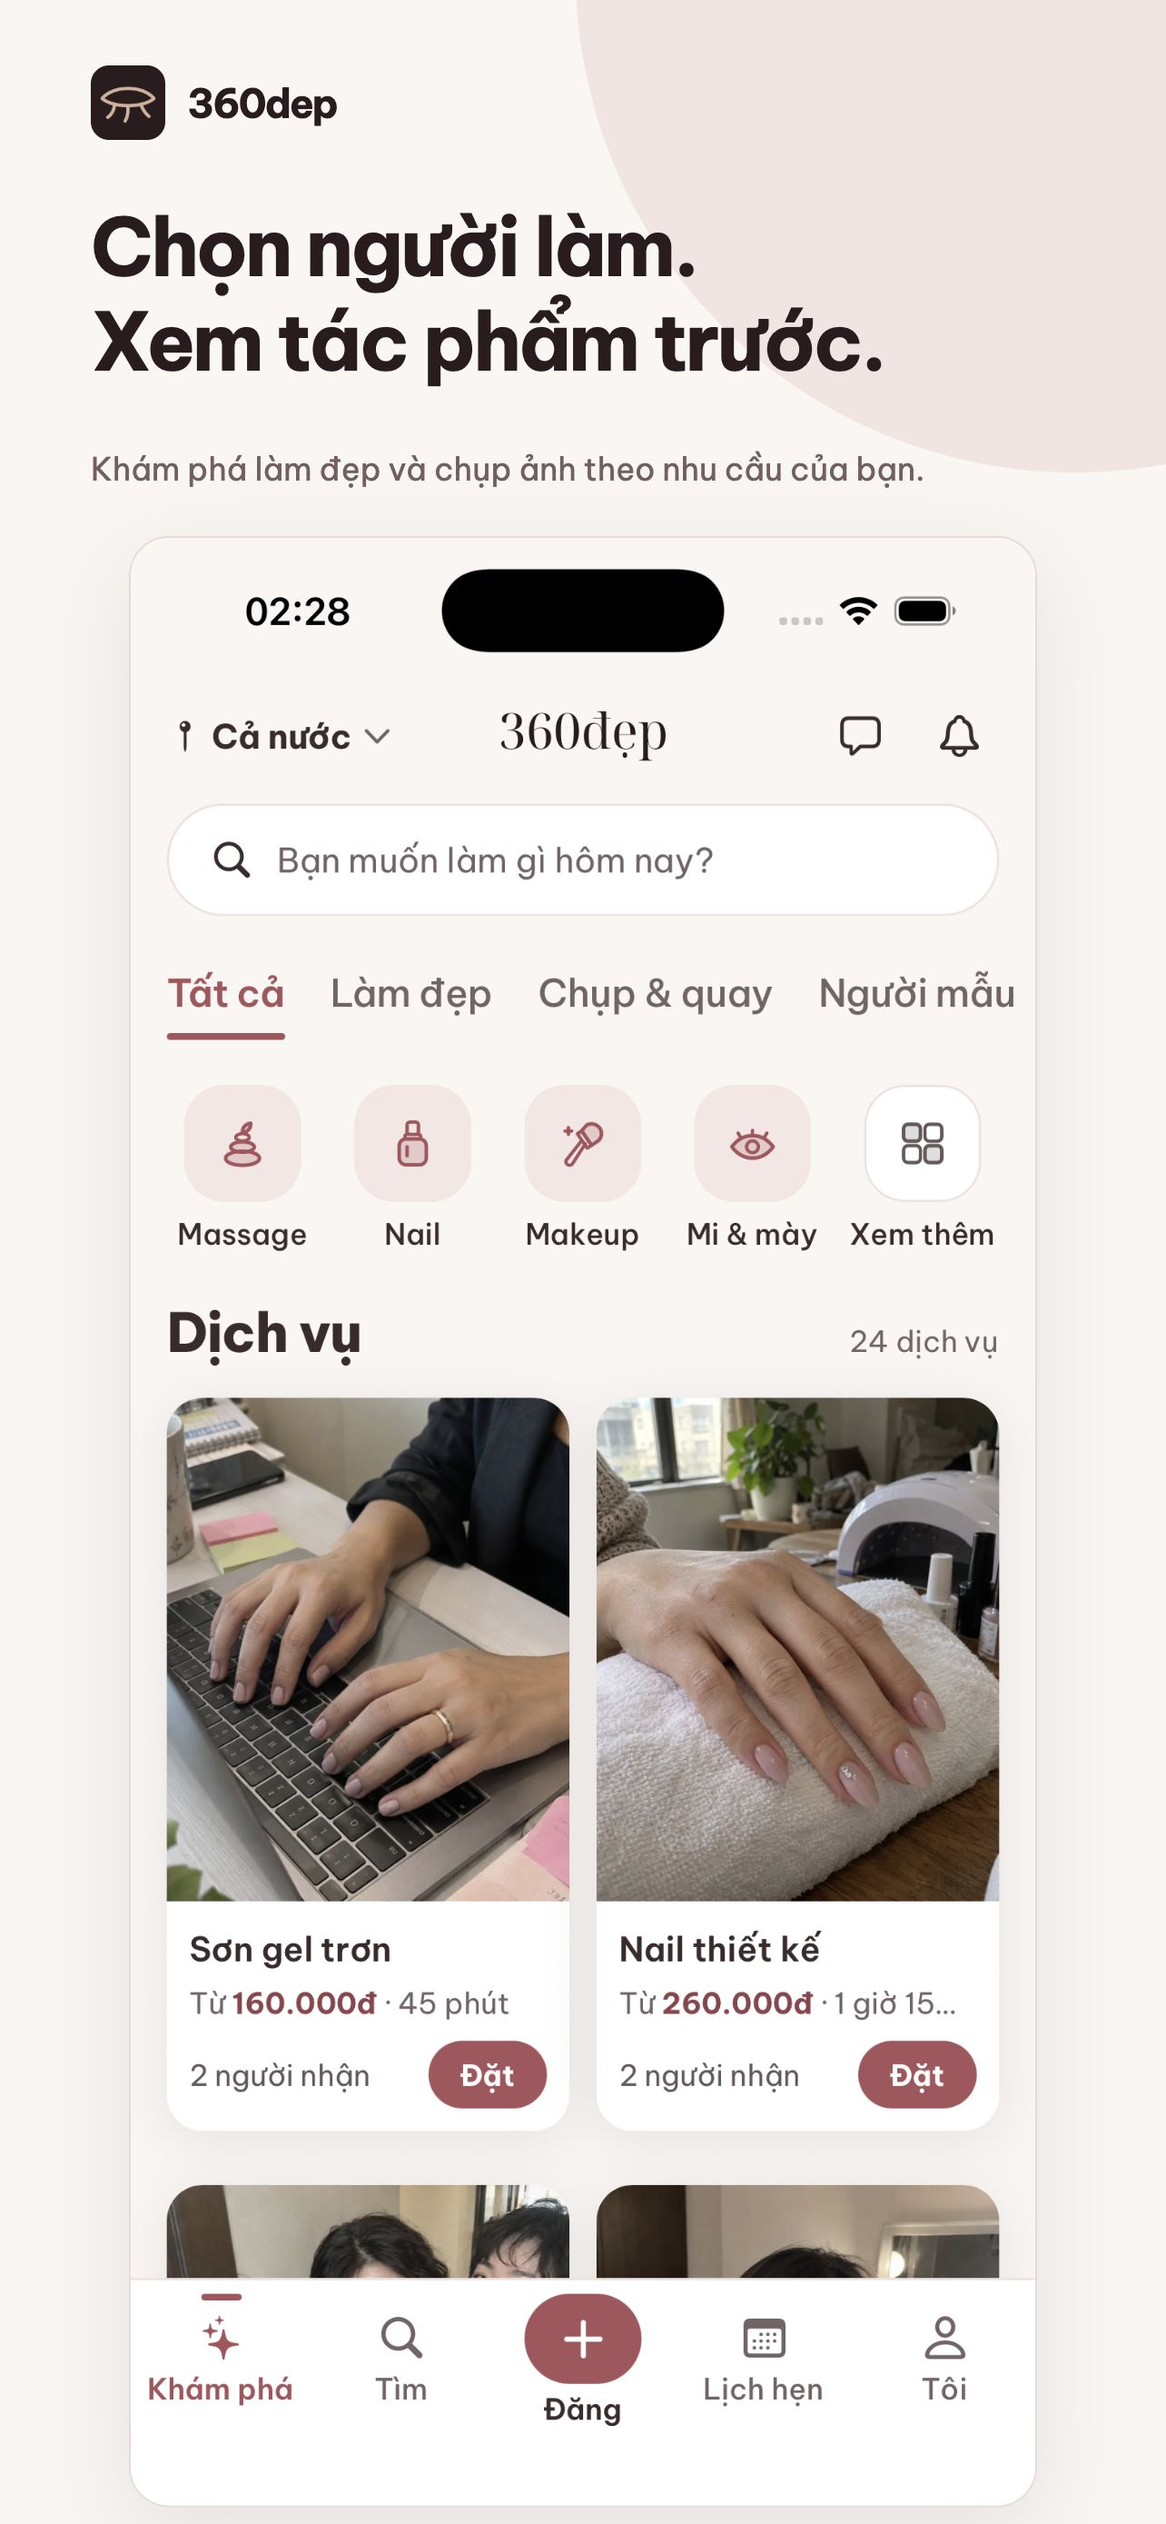
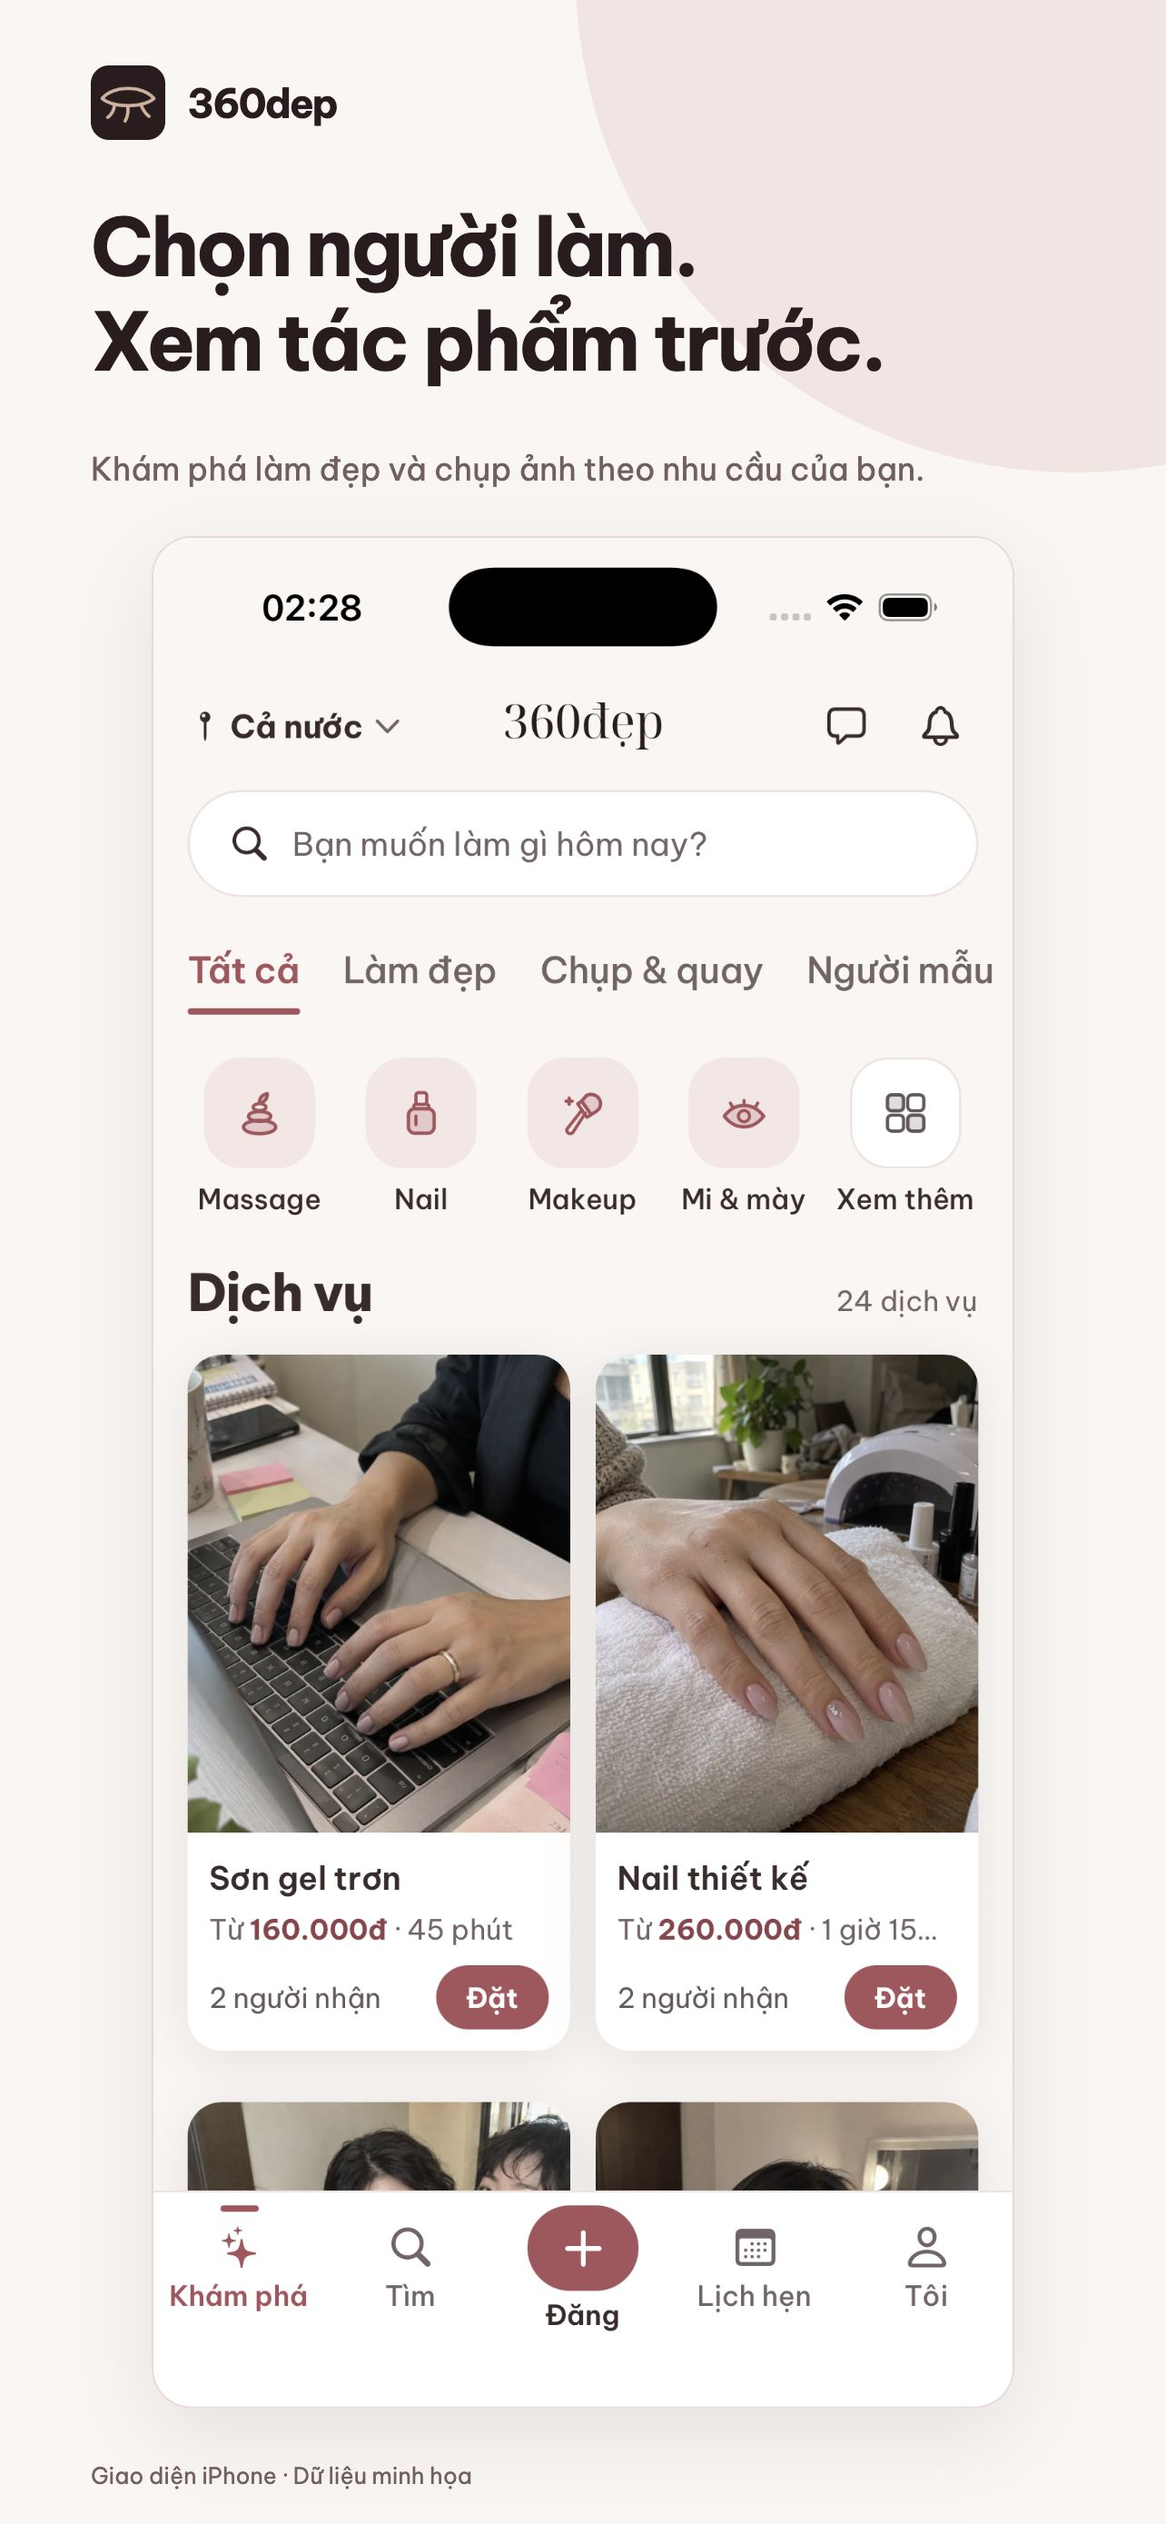
docs: expand iPhone store screenshots and record release blockers

diff --git a/docs/store-assets/2026-10-04/index.html b/docs/store-assets/2026-10-04/index.html
@@ -1,11 +1,11 @@
 <!doctype html><html lang="vi"><meta charset="utf-8"><title>360dep — Store assets</title>
 <style>
 @font-face{font-family:Be;src:url(regular.ttf)}@font-face{font-family:Be;src:url(bold.ttf);font-weight:700}
-*{box-sizing:border-box}html,body{margin:0;padding:0;background:#faf6f4;color:#2a1b1e;font-family:Be,Arial,sans-serif}.asset{position:relative;overflow:hidden;background:#faf6f4}.asset:before{content:"";position:absolute;width:1100px;height:1100px;border-radius:50%;background:#f4e4e4;right:-450px;top:-580px}.apple{width:1284px;height:2778px}.brand{position:absolute;top:72px;left:100px;display:flex;align-items:center;gap:24px;font-size:44px;letter-spacing:-2px;font-weight:700}.brand img{width:82px;height:82px;border-radius:20px}.title{position:absolute;top:220px;left:100px;font-size:88px;font-weight:700;line-height:1.18;letter-spacing:-3px;max-width:1110px;margin:0}.sub{position:absolute;top:455px;left:100px;font-size:35px;line-height:1.5;color:#755e62;max-width:1060px}.screen{position:absolute;left:142px;top:590px;width:1000px;border:2px solid #eadad7;border-radius:44px;overflow:hidden;box-shadow:0 30px 100px #2a1b1e1a}.screen img{display:block;width:100%;height:auto}.icon{width:512px;height:512px}.icon:before{display:none}.icon img{width:512px;height:512px;display:block}.feature{width:1024px;height:500px;background:#2a1b1e;color:#fff}.feature:before{background:#5a323b;width:620px;height:620px;top:-240px;right:-260px}.feature .brand{top:65px;left:70px;font-size:43px}.feature .brand img{width:74px;height:74px}.feature .title{top:175px;left:70px;font-size:49px;line-height:1.22;letter-spacing:-1px;width:820px}.feature .sub{top:330px;left:70px;font-size:24px;color:#dfc4c6;width:850px}.feature .line{position:absolute;bottom:62px;left:70px;width:70px;height:5px;background:#c4868c;border-radius:5px}
+*{box-sizing:border-box}html,body{margin:0;padding:0;background:#faf6f4;color:#2a1b1e;font-family:Be,Arial,sans-serif}.asset{position:relative;overflow:hidden;background:#faf6f4}.asset:before{content:"";position:absolute;width:1100px;height:1100px;border-radius:50%;background:#f4e4e4;right:-450px;top:-580px}.apple{width:1284px;height:2778px}.brand{position:absolute;top:72px;left:100px;display:flex;align-items:center;gap:24px;font-size:44px;letter-spacing:-2px;font-weight:700}.brand img{width:82px;height:82px;border-radius:20px}.title{position:absolute;top:220px;left:100px;font-size:88px;font-weight:700;line-height:1.18;letter-spacing:-3px;max-width:1110px;margin:0}.sub{position:absolute;top:455px;left:100px;font-size:35px;line-height:1.5;color:#755e62;max-width:1060px}.screen{position:absolute;left:167px;top:590px;width:950px;border:2px solid #eadad7;border-radius:44px;overflow:hidden;box-shadow:0 30px 100px #2a1b1e1a}.screen img{display:block;width:100%;height:auto}.sample{position:absolute;left:100px;bottom:38px;font-size:25px;color:#755e62}.icon{width:512px;height:512px}.icon:before{display:none}.icon img{width:512px;height:512px;display:block}.feature{width:1024px;height:500px;background:#2a1b1e;color:#fff}.feature:before{background:#5a323b;width:620px;height:620px;top:-240px;right:-260px}.feature .brand{top:65px;left:70px;font-size:43px}.feature .brand img{width:74px;height:74px}.feature .title{top:175px;left:70px;font-size:49px;line-height:1.22;letter-spacing:-1px;width:820px}.feature .sub{top:330px;left:70px;font-size:24px;color:#dfc4c6;width:850px}.feature .line{position:absolute;bottom:62px;left:70px;width:70px;height:5px;background:#c4868c;border-radius:5px}
 </style><main id="asset"></main>
 <script>
 const type=new URLSearchParams(location.search).get('type')||'discover';const box=document.getElementById('asset');
 if(type==='icon'){box.className='asset icon';box.innerHTML='<img src="icon-native.png" alt="360dep">'}
 else if(type==='feature'){box.className='asset feature';box.innerHTML='<div class="brand"><img src="icon-native.png" alt="">360dep</div><h1 class="title">Làm đẹp và chụp ảnh<br>quanh bạn.</h1><p class="sub">Xem tác phẩm · Chọn dịch vụ · Đặt lịch rõ giá</p><div class="line"></div>'}
-else{const price=type==='prices';box.className='asset apple';box.innerHTML='<div class="brand"><img src="icon-native.png" alt="">360dep</div><h1 class="title">'+(price?'Gói dịch vụ rõ ràng.<br>Giá được chọn sẵn.':'Chọn người làm.<br>Xem tác phẩm trước.')+'</h1><p class="sub">'+(price?'Xem nội dung, thời gian và mức giá của từng gói.':'Khám phá làm đẹp và chụp ảnh theo nhu cầu của bạn.')+'</p><div class="screen"><img src="'+(price?'02-prices-native.png':'01-discover-ready-native.png')+'" alt="Giao diện native thực tế của 360dep"></div>'}
+else{const screens={discover:['Chọn người làm.<br>Xem tác phẩm trước.','Khám phá làm đẹp và chụp ảnh theo nhu cầu của bạn.','01-discover-ready-native.png'],prices:['Gói dịch vụ rõ ràng.<br>Giá được chọn sẵn.','Xem nội dung, thời gian và mức giá của từng gói.','02-prices-native.png'],search:['Lọc dịch vụ.<br>Chọn theo nhu cầu.','Lọc theo danh mục, mức giá và nơi phục vụ.','03-search-native.png'],profile:['Xem hồ sơ.<br>Khám phá phong cách.','Tác phẩm, bảng giá và thông tin trong cùng một hồ sơ.','04-profile-native.png'],work:['Xem tác phẩm.<br>Chọn mẫu bạn thích.','Xem ảnh, nội dung gói và thời gian thực hiện.','05-work-native.png'],booking:['Chọn gói.<br>Chọn nơi làm.','Đặt tại nhà hoặc studio với giá hiển thị trước.','06-booking-native.png']};const item=screens[type]||screens.discover;box.className='asset apple';box.innerHTML='<div class="brand"><img src="icon-native.png" alt="">360dep</div><h1 class="title">'+item[0]+'</h1><p class="sub">'+item[1]+'</p><div class="screen"><img src="'+item[2]+'" alt="Giao diện native thực tế của 360dep"></div><div class="sample">Giao diện iPhone · Dữ liệu minh họa</div>'}
 </script></html>

diff --git a/docs/RELEASE_PARTNER_2026-10-04.md b/docs/RELEASE_PARTNER_2026-10-04.md
@@ -72,3 +72,28 @@ Read-only SQL production xác nhận 7/7 hồ sơ công khai là seed, 22 user s
 Google có “Signed, universal APK” 117 MB tại Bundle Explorer, nhưng yêu cầu download hai lần không trả được file. Chưa cài/kiểm thử Android; không phát sinh build trả phí. AVD riêng `dep360_store_qa` được chuẩn bị dưới `/tmp/dep360-android-qa`, chưa khởi chạy. Chrome URL policy chặn mở `chrome://downloads/`; không đi đường khác để vượt chặn. Android screenshot chưa hoàn thành.
 
 Đã sửa lỗi đuôi file screenshot: browser capture tạo JPEG nhưng ban đầu đặt `.png`. Apple đã thay bằng hai `.jpg`, hiện thumbnail đúng và không còn biểu tượng lỗi. File render Google trong repo cũng đổi đuôi đúng. Google chấp nhận ảnh theo bytes; hai ảnh listing load thành công (icon 512×512, feature preview 512×250), không cần thay upload đã hợp lệ.
+
+
+## Bổ sung ảnh store — 2026-10-05
+
+Theo yêu cầu tiếp tục và chụp/đăng đủ hình, đã bổ sung 4 screenshot iPhone native: bộ lọc, hồ sơ, chi tiết tác phẩm và bước chọn gói đặt lịch. App Store Connect hiện đủ 6/10 screenshot Vietnamese 6.5-inch; thumbnail đúng, tải lại vẫn đủ 6, Save disabled. Apple vẫn Prepare for Submission. [Bằng chứng](./store-assets/2026-10-04/local-proofs/dep360-apple-six-screenshots.jpg). Hai ảnh đầu giữ bản cũ; bản local đã thêm nhãn minh họa. Delete All bị automatic approval review từ chối do thiếu xác nhận ngay lúc xóa, đã Cancel và dùng phương án chỉ thêm 4 ảnh.
+
+Apple session hết hạn đã đăng nhập lại đúng sai211dn bằng mật khẩu lưu trong Chrome; 2FA hoàn tất, tiếp tục được App Store Connect. Không lưu mật khẩu/OTP vào tài liệu. Kết nối Chrome DOM không khả dụng ở lượt này; thao tác store bằng CUA native Chrome.
+
+Dữ liệu hồ sơ vẫn là seed. Màn hình chọn ngày giờ trên simulator tải kéo dài, chưa xác nhận booking E2E; không dùng ảnh spinner cho store. Bộ lọc thay ảnh danh sách tìm kiếm có trạng thái tải.
+
+Đĩa xuống khoảng 116–190 MB nhiều lần; đã dọn riêng bản giải nén IPA, ba export JS tạm và node_modules root/mobile của 360dep (cài lại bằng npm ci), giữ IPA/AAB và source. Dung lượng có tăng lên khoảng 1,5 GB nhưng Android emulator vẫn FATAL hasSufficientDiskSpace; đã yêu cầu chủ máy giải phóng ít nhất 4 GB. Không chỉnh emulator dự án khác, không chạy thêm build trả phí. Google screenshot chưa hoàn thành.
+
+User đã yêu cầu làm tiếp toàn bộ các việc còn thiếu. Chưa tạo key Sign in with Apple, chưa đổi khai báo age/wellness, chưa ẩn hồ sơ seed ở lượt bổ sung hình này. Các mục này cần tiếp tục theo bằng chứng nguồn và policy tại hành động; không coi yêu cầu làm tiếp là bằng chứng đã hoàn tất.
+
+Đã hoàn tất Apple age rating: questionnaire khai UGC/social discovery/chat Yes, age assurance/parental controls/unrestricted web access/paid advertising No; medical treatment None, health/wellness Yes; nội dung mature/sexual/violence/chance-based None/No. Calculated 13+, override 18+ theo đối tượng người lớn. UI hiện 18+ (iOS trước 26 là 17+ theo quy đổi Apple). [Bằng chứng](./store-assets/2026-10-04/local-proofs/dep360-apple-age-18.jpg).
+
+Đã chuẩn bị APK QA local từ AAB versionCode 4 bằng bundletool 1.18.1 + aapt2 vendor đã cài, debug-signed bằng debug keystore existing. SHA256 JS bundle khớp AAB đã upload; APK 116.823.523 bytes. Đây là artifact dùng chụp/QA, không upload hoặc thay binary store. Android emulator thử boot lần này SDK từ chối hasSufficientDiskSpace dù còn 1,5 GB; không bypass kiểm tra dung lượng.
+
+Google listing thử Save as draft báo “Upload at least 2 phone or tablet screenshots”. Icon/feature render load đúng nhưng cần Android screenshots để lưu hợp lệ; giữ tab listing và chuyển khai báo qua tab dashboard riêng, không discard ảnh. Apple Content Rights form cần owner xác nhận quyền ảnh mẫu; đã hỏi vì chưa tìm được hồ sơ quyền sử dụng trong repo, chưa tick “I have the necessary rights”.
+
+Kiểm tra read-only bổ sung: anon được EXECUTE free_slots; gọi REST production bằng public anon key trả HTTP 200 và 18 giờ trống cho nail-design/simple ngày 2026-10-06 trong khoảng 1,2 giây. Không tạo đơn. Điều này xác nhận API có trả dữ liệu; chưa xác định nguyên nhân native spinner và chưa xác nhận booking E2E.
+
+Cập nhật dung lượng thực tế: khi đĩa tăng lên khoảng 4,8 GB, SDK vượt kiểm tra ban đầu nhưng từ chối tạo userdata, yêu cầu 7.372,8 MB. Đổi storage của riêng QA AVD từ mặc định 10 GB xuống 2 GB và bỏ SD card không làm giảm mức tối thiểu của image. Cần khoảng 8 GB trống; không tắt/bypass kiểm tra SDK.
+
+Mac đã khóa màn hình, CUA yêu cầu chủ máy mở khóa thủ công; đã hỏi và dừng UI. Supabase sign-in bằng thông tin lưu trong Chrome đã khởi chạy, chưa xác nhận vào được Auth Users trước lúc khóa. Google Target audience yêu cầu Sign in details trước khi điền; còn cần tài khoản reviewer. Chưa tạo tài khoản hoặc nhập mật khẩu mới. Các ảnh bằng chứng native Chrome có thanh tab dự án khác được giữ riêng ở local-proofs (gitignored), không đưa lên repository công khai.

diff --git a/docs/store-assets/2026-10-04/README.md b/docs/store-assets/2026-10-04/README.md
@@ -1,9 +1,15 @@
-# Store assets — 2026-10-04
+# Store assets — updated 2026-10-05
 
-Apple đã lưu hai screenshot iPhone 1284×2778. Google đã lưu icon 512×512 và feature graphic 1024×500. Chưa có screenshot Android.
+App Store Connect đã có 6 screenshot iPhone 1284×2778: khám phá, giá, tác phẩm, chọn gói đặt lịch, hồ sơ và bộ lọc. Đã kiểm tra thumbnail đúng, tải lại trang vẫn đủ 6 ảnh và Save disabled. Bằng chứng: [App Store 6 ảnh](./local-proofs/dep360-apple-six-screenshots.jpg). Google đã có icon 512×512 và feature graphic 1024×500; screenshot Android còn thiếu.
 
-Ảnh iPhone lấy từ UI native Release của 360dep Partner QA, dùng backend production. Trang HTML tạo khung giới thiệu quanh ảnh native; font Be Vietnam Pro lấy từ assets của dự án. Chạy HTTP server trên thư mục này, mở `?type=discover`, `?type=prices`, `?type=icon` hoặc `?type=feature` để tái tạo.
+Ảnh lấy bằng chức năng Save Screen của Simulator từ app native trên thiết bị riêng 360dep Partner QA, backend production. HTML chỉ tạo khung giới thiệu; không dựng giả UI. Font Be Vietnam Pro lấy từ assets dự án. Chạy HTTP server thư mục này, mở index.html với type=discover, prices, search, profile, work, booking, icon hoặc feature để tái tạo. `search` hiện là ảnh bộ lọc.
 
-Các hồ sơ hiển thị hiện là dữ liệu seed/demo. Chưa duyệt ảnh cho phát hành công khai; cần chốt dữ liệu thật và chụp lại nếu thay đổi nội dung. Không dùng ảnh iOS làm screenshot Android. Các ảnh bằng chứng dashboard chỉ ghi nhận trạng thái dự thảo, không chứng minh đã gửi review.
+Bốn ảnh bổ sung có nhãn “Giao diện iPhone · Dữ liệu minh họa”. Hai ảnh đầu trên Apple vẫn là bản đã upload trước đó; file local đã có nhãn mới nhưng chưa thay trên Apple. Automatic review chặn Delete All vì cần xác nhận ngay lúc xóa; đã Cancel và chỉ thêm 4 ảnh, không xóa ảnh hiện có.
 
-Ảnh render từ browser có bytes JPEG. Bốn file render Apple/Google dùng đuôi `.jpg` đúng định dạng. Bản Apple đuôi `.png` ban đầu bị processor báo lỗi, đã thay bằng hai JPEG và xác nhận thumbnail native hiển thị đúng, Save disabled.
+Hồ sơ đang hiển thị là seed/demo. Không dùng ảnh iPhone làm screenshot Android. Chưa gửi App Review hoặc phát hành. Không dùng màn hình chọn ngày giờ đang tải kéo dài làm ảnh giới thiệu; cần điều tra trước khi xác nhận booking E2E.
+
+Ảnh render và ảnh bằng chứng Chrome/CUA có bytes JPEG, dùng đuôi .jpg. Ảnh native lưu từ Simulator là PNG.
+
+Android AVD riêng dep360_store_qa đã thử khởi động ngày 2026-10-05, nhưng SDK từ chối vì không đủ dung lượng đĩa. Không khởi động/chỉnh emulator dự án khác và không chạy build trả phí mới. Chỉ dọn tệp xuất/build tạm 360dep và node_modules có thể cài lại bằng npm ci; không đổi source ứng dụng.
+
+Bằng chứng mới trong local-proofs chỉ lưu trên máy và được gitignore vì screenshot native Chrome có thanh tab của các tác vụ khác. Sau khi dung lượng đạt 4,8 GB, SDK vẫn báo cần 7.372,8 MB để tạo userdata; cần khoảng 8 GB để tiếp tục Android.
